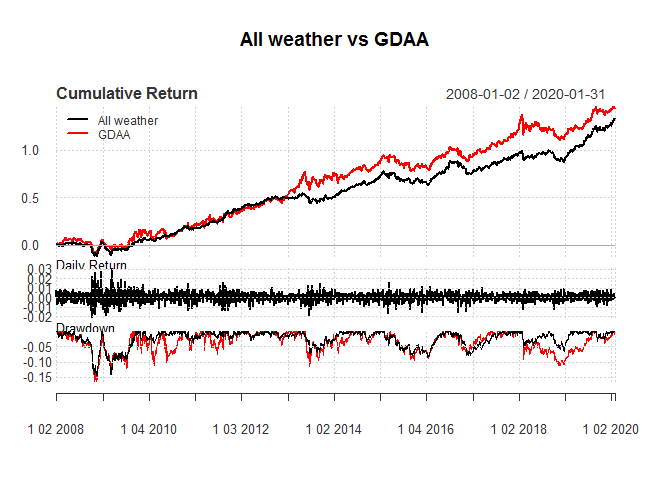
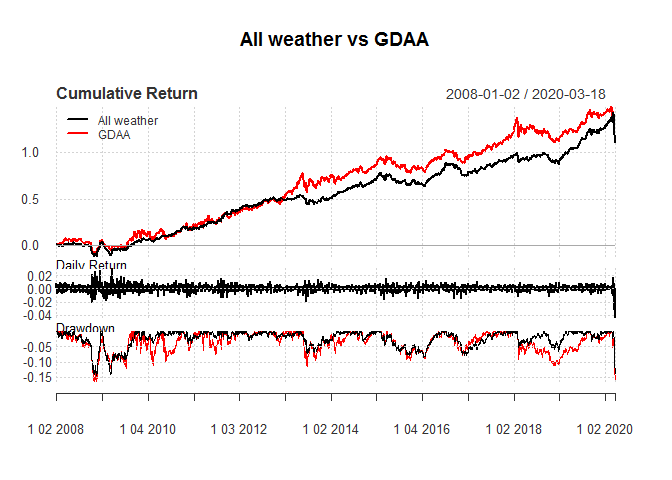
update

diff --git a/all_weather.md b/all_weather.md
@@ -70,9 +70,9 @@ names(Port_all_net) = 'Returns_allweather'
 
 #### 결과 요약(All weather)
 
-|             | 연평균수익률 | 누적수익률 | 최대낙폭 | 연평균표준편차 |
-|-------------|:------------:|:----------:|:--------:|:--------------:|
-| All Weather |   0.0726537  |  1.329369  |  0.14482 |    0.0720501   |
+|             | 연평균수익률 | 누적수익률 |  최대낙폭 | 연평균표준편차 |
+|-------------|:------------:|:----------:|:---------:|:--------------:|
+| All Weather |   0.0634464  |  1.095131  | 0.1448197 |    0.074881    |
 
 ### GDAA(Global Dynamic Asset Allocation) 전략을 통한 포트폴리오
 
@@ -199,7 +199,7 @@ names(Port_gdaa_net) = 'Returns_gdaa'
 
 |      | 연평균수익률 | 누적수익률 |  최대낙폭 | 연평균표준편차 |
 |------|:------------:|:----------:|:---------:|:--------------:|
-| GDAA |   0.0789876  |  1.430672  | 0.1631827 |    0.1038817   |
+| GDAA |   0.0664135  |   1.09809  | 0.1631823 |    0.1062812   |
 
 ### All weather vs GDAA
 
@@ -217,5 +217,5 @@ charts.PerformanceSummary(portfolios, main = 'All weather vs GDAA')
 
 |             | 연평균수익률 | 누적수익률 |  최대낙폭 | 연평균표준편차 |
 |-------------|:------------:|:----------:|:---------:|:--------------:|
-| All Weather |   0.0726537  |  1.329369  | 0.1448200 |    0.0720501   |
-| GDAA        |   0.0789876  |  1.430672  | 0.1631827 |    0.1038817   |
+| All Weather |   0.0634464  |  1.095131  | 0.1448197 |    0.0748810   |
+| GDAA        |   0.0664135  |  1.098090  | 0.1631823 |    0.1062812   |
